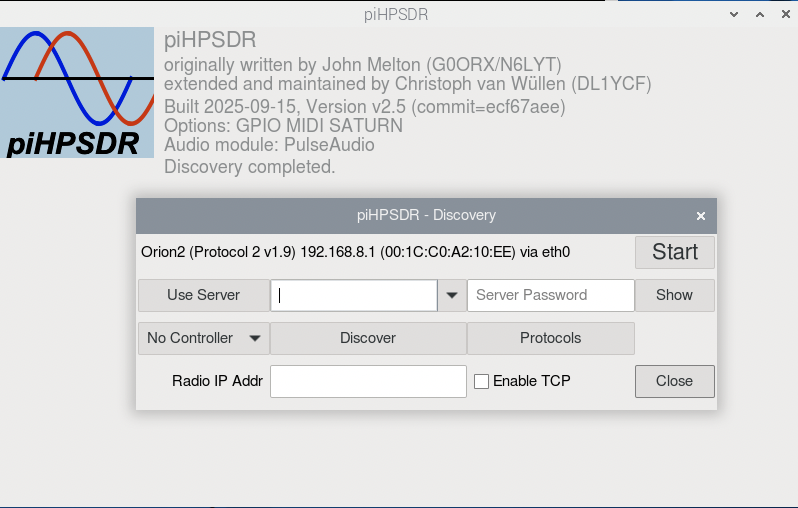
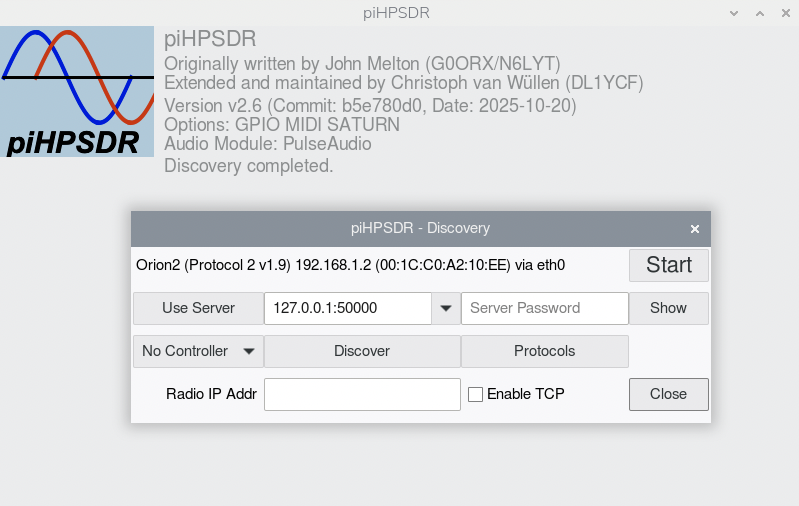
Some new figures for the Manual.

diff --git a/release/LatexManual/piHPSDR-Manual.tex b/release/LatexManual/piHPSDR-Manual.tex
@@ -242,7 +242,8 @@ into the RJ45 jacks of the computer and of the radio (see Appendix
 \end{figure}
 
 If the \pH program is started for the first time, it opens a window that looks like Fig. \ref{fig:Planning}.
-Besides stating a version number and the date \pH was built, the list of optional features is
+Besides stating a version number, and the ID string and the date of latest commit (change)
+applied to the repository from which \pH was built, the list of optional features is
 documented (compile-time options,
 in this case  GPIO, MIDI, SATURN) as well as the audio module used (here: PulseAudio) for attaching headphones
 or microphones to the host computer running \pH. Information about  compile-time options and how to add
@@ -1247,21 +1248,24 @@ The about menu gives you some information about \pH, first the original author,
 John Melton,
 and an (incomplete) list
 of persons who contributed to the code, and then a statement which version of \pH
-is working here, and when it has been compiled. Here you also find the version number of the WDSP
+is working here, and the ID string and the data of the latest commit (change)
+applied to the repository from which \pH was built.
+ Here you also find the version number of the WDSP
 library which is the ,,engine''
 running under the hood, and which does nearly all of the signal processing. If you file a bug report,
 this is very important information so you should always include a screen shot of the \bltt{About}
 menu when reporting problems. Of particular importance is the so-called \rett{commit},
-this hexadecimal number (here: a1bbb70) identifies the exact status of the source code files
+this hexadecimal number (here: b5e780d0) identifies the exact status of the source code repository
 when the program has been compiled. If a string \texttt{-dirty} is appended to the version number
-(here: v2.5, that is, \textit{not} dirty) this means that one or more files have been locally  modified
-and do not match the commit, and problem reports from a ,,dirty'' version are difficult to handle.
+(here: v2.6, that is, \textit{not} dirty) this means that one or more files have been locally  modified
+and do not match the commit, and problem reports from a ,,dirty'' version are difficult to handle
+since it is not documented what has been changed locally.
 
 Finally, there is
 some data on the radio, namely the device type and version numbers, and which protocol is running.
 For diagnostic purposes, you also see the MAC address of the radio, its IP address (in the
-example shown, 192.168.8.10) and the
-IP address of the computer running \pH (here 192.168.8.1, this is the IP address of the network
+example shown, 192.168.8.2) and the
+IP address of the computer running \pH (here 192.168.8.3, this is the IP address of the network
 interface that actually does the connection with the radio).
 The radio's IP and MAC address are also displayed in the \pH main window title bar,
 the MAC address is of interest since the radio-specific
